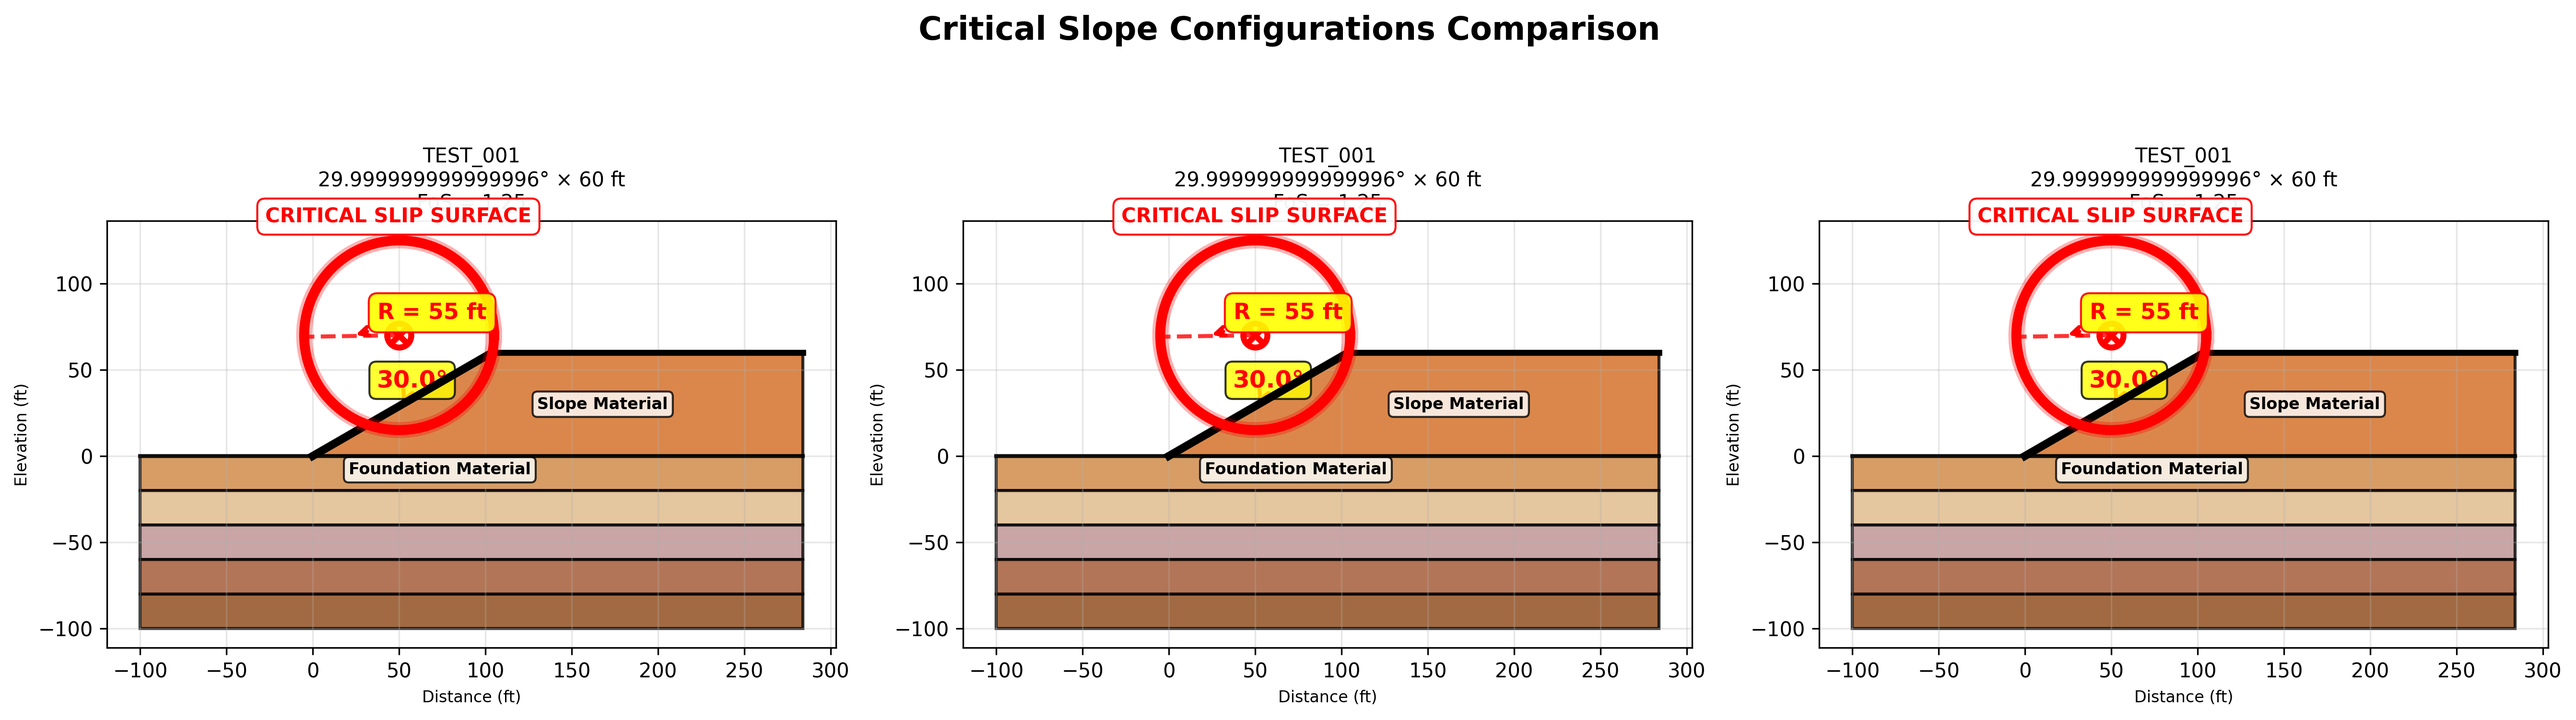
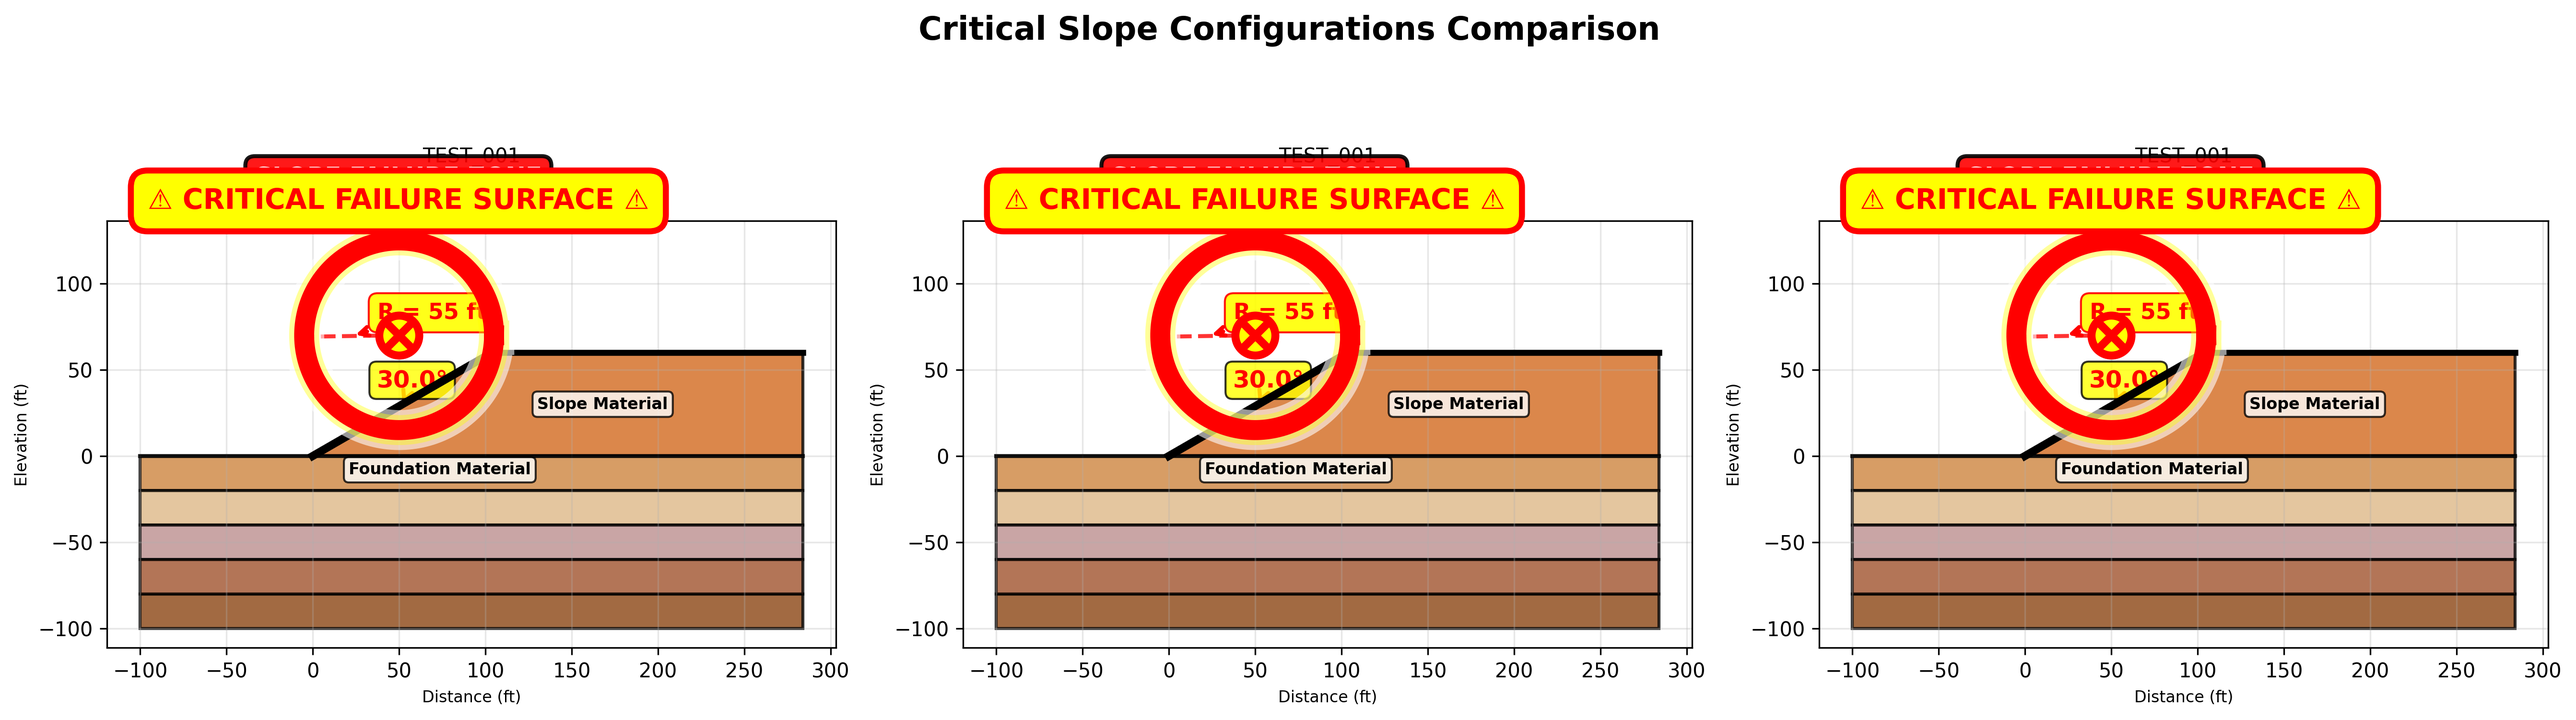
adding failure surface

Changed region(s): [[0.0311, 0.2142, 0.2798, 0.6427], [0.7151, 0.2142, 0.9328, 0.6427], [0.3731, 0.2142, 0.5908, 0.6427]]

diff --git a/EMPCO/slope_geometry_visualizer.py b/EMPCO/slope_geometry_visualizer.py
@@ -304,22 +304,26 @@ class SlopeGeometryVisualizer:
                 valid_x = [circle_x[i] for i in valid_indices]
                 valid_y = [circle_y[i] for i in valid_indices]
                 
-                # Draw failure surface with multiple visual elements
-                # 1. Main failure surface line
-                ax.plot(valid_x, valid_y, color=self.slip_surface_color, 
-                       linewidth=5, linestyle='-', alpha=1.0,
-                       label='Critical Failure Surface', zorder=15)
+                # Draw failure surface with MAXIMUM visibility
+                # 1. Very thick bright red line that can't be missed
+                ax.plot(valid_x, valid_y, color='red', 
+                       linewidth=10, linestyle='-', alpha=1.0,
+                       label='Critical Failure Surface', zorder=20)
                 
-                # 2. Add a subtle shadow/glow effect
-                ax.plot(valid_x, valid_y, color=self.slip_surface_color, 
-                       linewidth=8, linestyle='-', alpha=0.3, zorder=14)
+                # 2. Add yellow glow/shadow for extreme visibility
+                ax.plot(valid_x, valid_y, color='yellow', 
+                       linewidth=15, linestyle='-', alpha=0.4, zorder=19)
                 
-                # 3. Center point with enhanced visibility
-                ax.plot(center_x, center_y, 'o', color='white', 
-                       markersize=12, markeredgewidth=3, 
-                       markeredgecolor=self.slip_surface_color, zorder=16)
-                ax.plot(center_x, center_y, 'x', color=self.slip_surface_color, 
-                       markersize=10, markeredgewidth=3, zorder=17)
+                # 3. Add white background for contrast
+                ax.plot(valid_x, valid_y, color='white', 
+                       linewidth=20, linestyle='-', alpha=0.6, zorder=18)
+                
+                # 4. VERY PROMINENT center point
+                ax.plot(center_x, center_y, 'o', color='yellow', 
+                       markersize=20, markeredgewidth=4, 
+                       markeredgecolor='red', zorder=22)
+                ax.plot(center_x, center_y, 'x', color='red', 
+                       markersize=15, markeredgewidth=4, zorder=23)
                 
                 # 4. Enhanced radius annotation
                 # Find best point on arc for radius annotation
@@ -346,19 +350,27 @@ class SlopeGeometryVisualizer:
                                arrowprops=dict(arrowstyle='->', color=self.slip_surface_color, lw=2),
                                zorder=18)
                 
-                # 5. Add "CRITICAL SLIP SURFACE" label
+                # 6. Add VERY PROMINENT "FAILURE SURFACE" label
                 # Position label at top of arc if possible
                 if valid_y:
                     max_y_idx = np.argmax(valid_y)
                     label_x = valid_x[max_y_idx]
                     label_y = valid_y[max_y_idx]
                     
-                    ax.text(label_x, label_y + 8, 'CRITICAL SLIP SURFACE', 
-                           ha='center', va='bottom', fontsize=10, fontweight='bold',
-                           color=self.slip_surface_color,
-                           bbox=dict(boxstyle="round,pad=0.4", facecolor='white', 
-                                    edgecolor=self.slip_surface_color, alpha=0.95),
-                           zorder=18)
+                    ax.text(label_x, label_y + 15, '⚠ CRITICAL FAILURE SURFACE ⚠', 
+                           ha='center', va='bottom', fontsize=14, fontweight='bold',
+                           color='red',
+                           bbox=dict(boxstyle="round,pad=0.6", facecolor='yellow', 
+                                    edgecolor='red', linewidth=3, alpha=1.0),
+                           zorder=25)
+                    
+                    # Add additional label with FoS if available
+                    ax.text(label_x, label_y + 30, 'SLOPE FAILURE ZONE', 
+                           ha='center', va='bottom', fontsize=12, fontweight='bold',
+                           color='white',
+                           bbox=dict(boxstyle="round,pad=0.4", facecolor='red', 
+                                    edgecolor='black', linewidth=2, alpha=0.9),
+                           zorder=24)
         
         elif surface_type == 'coordinates' and slip_surface.get('coordinates'):
             # Plot failure surface from coordinates with enhanced styling
